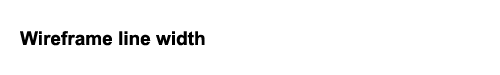
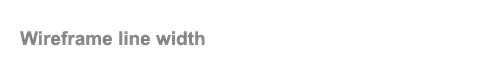
The slider is sliding!
Added a new texture for the label for wireframe line width.

Changed region(s): [[0.03, 0.4, 0.42, 0.6133]]

diff --git a/Innlevering2/src/SliderWithText.cpp b/Innlevering2/src/SliderWithText.cpp
@@ -9,19 +9,26 @@ static const std::string debug_texture_path = "GUI/debug.png";
 static const std::string slider_texture_path = "GUI/Slider_line.png";
 static const std::string slider_knob_texture_path = "GUI/Slider_knob.png";
 
-SliderWithText::SliderWithText(const std::string& name_label_path,std::shared_ptr<GLUtils::Program> gui_program)
+SliderWithText::SliderWithText(const std::string& name_label_path,
+							  std::shared_ptr<GLUtils::Program> gui_program, 
+							  glm::vec2 position)
 	:label(name_label_path), slider(slider_texture_path), slider_knob(slider_knob_texture_path)
 {
 	if(gui_vao == -1 && gui_vbo == -1)
 	GenerateGUI_VBO_VAO(gui_program);
 
-	label.set_position(glm::vec3(800, 100, -5));
-	label.set_scale(glm::vec2(0.7f));
-	slider.set_position(glm::vec3(800, 0, -5));
-	slider.set_scale(glm::vec2(0.7f));
-	slider_knob.set_position(glm::vec3(800, 0, -5));
-	slider_knob.set_scale(glm::vec2(0.7f));
+	label.set_position(glm::vec3(position.x, position.y+15, -5));
+	
+	slider.set_position(glm::vec3(position.x, position.y, -5));
+	slider.set_scale(glm::vec2(0.6f));
+	
+	slider_knob.set_position(glm::vec3(position.x, position.y, -5));
+
+	slider_knob.set_scale(glm::vec2(0.6f));
+
 	glBindTexture(GL_TEXTURE_2D, 0);
+
+	interacting = false;
 }
 
 SliderWithText::~SliderWithText()
@@ -55,27 +62,51 @@ void SliderWithText::GenerateGUI_VBO_VAO(std::shared_ptr<GLUtils::Program> gui_p
 void SliderWithText::Draw( glm::vec2 position, GLuint& quad_fbo,
 						std::shared_ptr<GLUtils::Program> gui_program)
 {
-	//gui_program->use();
-
-	////Bind the textures before rendering
-	//glActiveTexture(GL_TEXTURE0);
 	glBindVertexArray(gui_vao);
 	
 	label.Draw(gui_program);
 	slider.Draw(gui_program);
 	slider_knob.Draw(gui_program);
+	
+	glBindVertexArray(0);
 	CHECK_GL_ERRORS();
 }
 
-bool SliderWithText::Update( float delta_time, glm::vec2& mouse_pos )
+void SliderWithText::Update( float delta_time, glm::vec2& mouse_pos )
 {
-	glm::vec2 lowleft_mousepos = glm::vec2(mouse_pos.x, window_height-mouse_pos.y);
-	std::cout << "x: " << lowleft_mousepos.x << "  y: " << lowleft_mousepos.y << std::endl;
-	if(slider_knob.contains(lowleft_mousepos))
+	if(interacting)
 	{
-		std::cout << "inside"<< std::endl;
+		glm::vec2 lowleft_mousepos = glm::vec2(mouse_pos.x, window_height-mouse_pos.y);
+		if(slider.get_rect().x < lowleft_mousepos.x && slider.get_rect().x + slider.get_rect().width > lowleft_mousepos.x)
+		{
+			if(lowleft_mousepos.x != previous_mouse_pos.x)
+			{
+				glm::vec2 new_knob_pos = slider_knob.get2d_position();
+				new_knob_pos.x += lowleft_mousepos.x - previous_mouse_pos.x;
+
+				slider_knob.set_position(new_knob_pos);
+			}
+			previous_mouse_pos = lowleft_mousepos;
+		}
+		
+	}
+}
+
+bool SliderWithText::BeginInteraction( glm::vec2& mouse_pos )
+{
+	previous_mouse_pos = glm::vec2(mouse_pos.x, window_height-mouse_pos.y);
+
+	if(slider_knob.contains(previous_mouse_pos))
+	{
+		interacting = true;
 		return true;
 	}
-	return false;//return true if we are updating the slider
+	else
+		return false;
+}
+
+void SliderWithText::EndInteraction( glm::vec2& mouse_pos )
+{
+	interacting = false;
 }
 

diff --git a/Innlevering2/include/SliderWithText.h b/Innlevering2/include/SliderWithText.h
@@ -26,13 +26,40 @@ using namespace gui;
 class SliderWithText
 {
 public:
-    SliderWithText(const std::string& name_label_path,std::shared_ptr<GLUtils::Program> gui_program);
+    SliderWithText(const std::string& name_label_path, 
+				   std::shared_ptr<GLUtils::Program> gui_program, 
+				   glm::vec2 position);
+
     ~SliderWithText();
 
 	void Draw(glm::vec2 position, GLuint& quad_fbo, 
 			std::shared_ptr<GLUtils::Program> gui_program);
 
-	bool Update(float delta_time, glm::vec2& mouse_pos);
+	/**
+	* Sets the Sliders state to updating. Mouse input after this function
+	* is called will affect the slider knobs position if Update is called.
+	*
+	* @param mouse_pos position of the mouse in SDL event.motion coordinates
+	*/
+	bool BeginInteraction(glm::vec2& mouse_pos);
+	
+	/**
+	* Sets the sliders state to not updating. Mouse input after this function
+	* is called will not affect the slider knobs position.
+	*
+	* @param mouse_pos position of the mouse in SDL event.motion coordinates
+	*/
+	void EndInteraction(glm::vec2& mouse_pos);
+
+	/**
+	* Updates the position of the slider based on the mouse position.
+	* If BeginInteraction has not been called since startup or previous
+	* EndInteraction call, the position will not be updated.
+	*
+	* @param delta_time time since last game update
+	* @param mouse_pos position of the mouse in SDL event.motion coordinates
+	*/
+	void Update(float delta_time, glm::vec2& mouse_pos);
 
 private:
 	GUITexture slider;
@@ -43,8 +70,11 @@ private:
 	
 	void GenerateGUI_VBO_VAO(std::shared_ptr<GLUtils::Program> gui_program);
 
-	//gui::GUITexture label_texture;
-	//glm::mat4 model_matrix;
+	
+	bool interacting;
+	glm::vec2 previous_mouse_pos;
+
+	
 };
 
 #endif // SliderWithText_h__

diff --git a/Innlevering2/src/GUITexture.cpp b/Innlevering2/src/GUITexture.cpp
@@ -14,7 +14,7 @@ namespace gui
 		dimensions = glm::vec3(texture.width, texture.height, 1.0f);
 		position = glm::vec3(0);
 		scale = glm::vec3(1);
-		rect = Rect(0, 0, (int)dimensions.x, (int)dimensions.y);
+		rect = Rect(0.0f, 0.0f, dimensions.x, dimensions.y);
 	}
 
 	GUITexture::~GUITexture()
@@ -43,11 +43,12 @@ namespace gui
 	void GUITexture::set_position( glm::vec3& v )
 	{
 		position = v;
+		position_2d = glm::vec2(v.x, v.y);
 		model_matrix = glm::translate(glm::mat4(1), position); 
 		model_matrix = glm::scale(model_matrix, dimensions);
 		model_matrix = glm::scale(model_matrix, scale);
-		rect.x = static_cast<GLint>(position.x);
-		rect.y = static_cast<GLint>(position.y);
+		rect.x = position.x;
+		rect.y = position.y;
 	}
 
 	void GUITexture::set_scale( glm::vec2& v )
@@ -56,6 +57,8 @@ namespace gui
 		model_matrix = glm::translate(glm::mat4(1), position); 
 		model_matrix = glm::scale(model_matrix, dimensions);
 		model_matrix = glm::scale(model_matrix, scale);
+		rect.width*=scale.x;
+		rect.height*=scale.y;
 	}
 
 	bool GUITexture::contains( glm::vec2& v )
@@ -75,6 +78,21 @@ namespace gui
 
 		glBindTexture(GL_TEXTURE_2D, 0);
 		gui_program->disuse();
+	}
+
+	glm::vec3& GUITexture::get_position()
+	{
+		return position;
+	}
+
+	glm::vec2& GUITexture::get2d_position()
+	{
+		return position_2d;
+	}
+
+	gui::Rect& GUITexture::get_rect()
+	{
+		return rect;
 	}
 
 }

diff --git a/Innlevering2/src/GameManager.cpp b/Innlevering2/src/GameManager.cpp
@@ -236,7 +236,8 @@ void GameManager::init() {
 	SetShaderAttribPtrs();
 	current_program = phong_program;
 
-	slider_increase_line_width = std::make_shared<SliderWithText>("GUI/wireframe_line_width.png", gui_program);
+	slider_increase_line_width = std::make_shared<SliderWithText>("GUI/wireframe_line_width.png", 
+									gui_program, glm::vec2(950.0f, 10.0f));
 }
 
 void GameManager::SetMatrices()
@@ -572,10 +573,11 @@ void GameManager::play() {
 					zoomOut();
 				break;
 			case SDL_MOUSEBUTTONDOWN:
-				if(!slider_increase_line_width->Update(delta_time, glm::vec2(event.motion.x, event.motion.y)))
+				if(!slider_increase_line_width->BeginInteraction(glm::vec2(event.motion.x, event.motion.y)))
 					cam_trackball.rotateBegin(event.motion.x, event.motion.y);
 				break;
 			case SDL_MOUSEBUTTONUP:
+				slider_increase_line_width->EndInteraction(glm::vec2(event.motion.x, event.motion.y));
 				cam_trackball.rotateEnd(event.motion.x, event.motion.y);
 				break;
 			case SDL_MOUSEMOTION:

diff --git a/Innlevering2/include/GUITexture.h b/Innlevering2/include/GUITexture.h
@@ -76,10 +76,27 @@ namespace gui
 		*/
 		bool contains(glm::vec2& v);
 
+		/**
+		* @returns the position of this GUITexture
+		*/
+		glm::vec3& get_position();
+
+		/**
+		* @returns the xy position of this GUITexture
+		*/
+		glm::vec2& get2d_position();
+
+		/**
+		* @returns the rect representing this GUITextures bounds on the screen
+		*/
+		gui::Rect& get_rect();
+
 	private:
 		glm::mat4 model_matrix;
 		Texture texture;
 		glm::vec3 position;
+		glm::vec2 position_2d;
+
 		glm::vec3 dimensions;
 		glm::vec3 scale;
 		Rect rect;

diff --git a/Innlevering2/include/GUI_Util.h b/Innlevering2/include/GUI_Util.h
@@ -53,17 +53,17 @@ namespace gui
 	struct Rect
 	{
 		Rect();
-		Rect(int x, int y, int width, int height);
+		Rect(float x, float y, float width, float height);
 		
 		/**
 		* @return true if the rect r1 contains the vector v2, false otherwise
 		*/
 		static bool contains(Rect& r, glm::vec2& v);
 		
-		int x;
-		int y;
-		int width;
-		int height;
+		float x;
+		float y;
+		float width;
+		float height;
 	};
 
 	/**

diff --git a/Innlevering2/GUI_Util.cpp b/Innlevering2/GUI_Util.cpp
@@ -76,7 +76,7 @@ namespace gui
 		height = 0;
 	}
 
-	Rect::Rect( int x, int y, int width, int height )
+	Rect::Rect( float x, float y, float width, float height )
 	{
 		this->x = x;
 		this->y = y;
